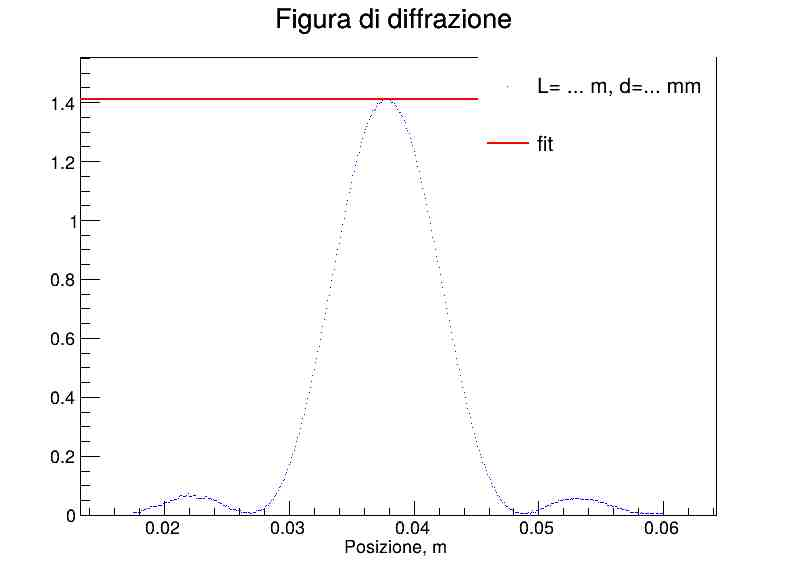
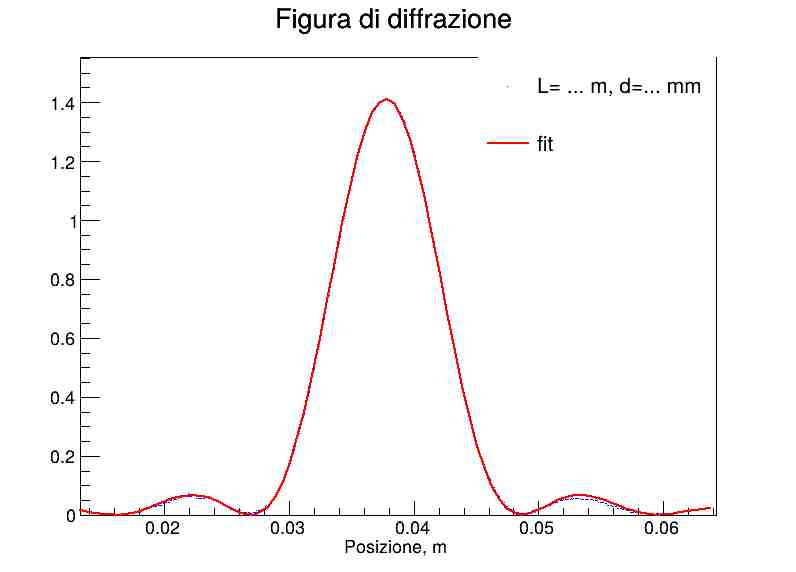
Chi2 troppo basso ):

diff --git a/modulo3/fit_main.cpp b/modulo3/fit_main.cpp
@@ -1,7 +1,10 @@
 #include "Fit_Diffrazione.h"
-int main(){
-    mydata("diff1(step100)");
-    myfunc(0., 1.41, 678.e9, 5.8e-5, 0.0376, 0.935);
-    myfit("diff1(step100)", 0., 1.41, 678.e9, 5.8e-5, 0.0376, 0.935);
-    std::cout << "Fine!" << '\n';
+int main() {
+  std::tuple<TString, double, double, double, double, double, double> parametri{
+      "diff1(step100)", 0., 1.41, 678.E-9, 5.8E-5, 0.0376, 0.935};
+
+  mydata("diff1(step100)");
+  myfunc(0., 1.41, 678.e-9, 5.8e-5, 0.0376, 0.935);
+  myfit("diff1(step100)", 0., 1.41, 678.e-9, 5.8e-5, 0.0376, 0.935);
+  std::cout << "Fine!" << '\n';
 }

diff --git a/modulo3/Fit_Diffrazione.cpp b/modulo3/Fit_Diffrazione.cpp
@@ -91,9 +91,9 @@ void myfit(TString fname, double bkg, double I0, double lambda, double d,
   f1->FixParameter(0, d);
   f1->FixParameter(2, L);
 
-  f1->SetParLimits(1, x0 - 0.001, x0 + 0.001);
-  f1->SetParLimits(4, I0 - 10., I0 + 10.);
-  f1->SetParLimits(5, bkg - 5., bkg + 5.);
+  // f1->SetParLimits(1, x0 - 0.001, x0 + 0.001);
+  // f1->SetParLimits(4, I0 - 10., I0 + 10.);
+  // f1->SetParLimits(5, bkg - 5., bkg + 5.);
 
   TCanvas *c2 = new TCanvas("c2", "Diffrazione_fit", 800, 600);
   data->Fit("myfunc", "R");

diff --git a/modulo3/Fit_Diffrazione.h b/modulo3/Fit_Diffrazione.h
@@ -12,6 +12,8 @@
 #include <iostream>
 #include <vector>
 
+std::tuple<TString, double, double, double, double, double, double> parametri{"diff1(step100)", 0., 1.41, 678.E-9, 5.8E-5, 0.0376, 0.935};
+
 Double_t Diffrazione(double *x, double *par);
 
 void myfunc(double bkg, double I0, double lambda, double d, double x0, double L);
